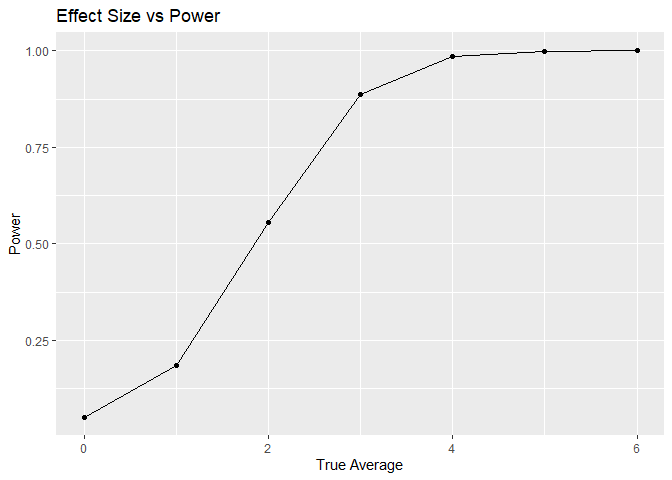
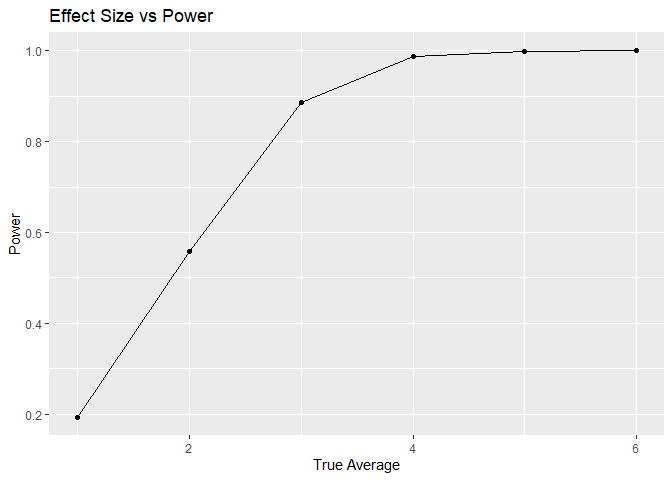
finished problem 3 and fixed function in problem 2 to make simulation run faster

diff --git a/HW5.md b/HW5.md
@@ -42,28 +42,31 @@ ggplot(sim_results_df, aes(x = sample_size, y = probability)) +
 
 ``` r
 power_sim = function(sample_mu){
-  sim_data = tibble(
-    x = rnorm(n = 30, mean = sample_mu, sd = 5),
-  )
-  sim_data %>% 
-    summarize(
-       t_test_results= broom::tidy(t.test(x, mu = 0, conf.level = .95)),
-       xbar = mean(x),
-       p_value = t_test_results$p.value
-    ) %>% 
-    select(xbar, p_value)
+    x = rnorm(n = 30, mean = sample_mu, sd = 5)
+    t_test_result= t.test(x, mu = 0, conf.level = .95)
+    tibble(xbar = mean(x), 
+           p_value = t_test_result$p.value)
 }
+
+mu_0 = power_sim(sample_mu = 0)
+print(mu_0)
 ```
+
+    ## # A tibble: 1 × 2
+    ##    xbar p_value
+    ##   <dbl>   <dbl>
+    ## 1 0.411   0.684
 
 ``` r
 simulation_results_df = 
   expand_grid(
-    sample_mu = c(0,1,2,3,4,5,6),
+    sample_mu = c(1, 2, 3, 4, 5, 6),
     iter = 1:5000
-  ) %>%  
-  mutate( 
+  ) %>% 
+  group_by(sample_mu) %>%
+  mutate(
     power_sim_df = map(sample_mu, power_sim)
-  ) %>%  
+  ) %>% 
   unnest(power_sim_df)
 ```
 
@@ -164,9 +167,10 @@ balt_result =
   broom::tidy() %>% 
   mutate(
     p_hat = estimate,
-    CI = paste("(",conf.low, ",",conf.high,")")
+    lower_ci_limit = conf.low,
+    upper_ci_limit = conf.high
   ) %>% 
-  select(p_hat, CI)
+  select(p_hat, lower_ci_limit, upper_ci_limit)
 ```
 
 ``` r
@@ -179,7 +183,21 @@ results_df =
   unnest(results) %>% 
   mutate(
     p_hat = estimate,
-    CI = paste("(",conf.low, ",",conf.high,")")
+    lower_ci_limit = conf.low,
+    upper_ci_limit = conf.high
   ) %>% 
-  select(city, p_hat, CI)
+  select(city, p_hat, lower_ci_limit, upper_ci_limit) %>% 
+  mutate(city = fct_reorder(city, p_hat))
+
+ggplot(results_df, aes(x = city, y = p_hat)) +
+  geom_point() + 
+  geom_errorbar(aes(ymin = lower_ci_limit, ymax = upper_ci_limit)) +
+  theme(axis.text.x = element_text(angle = 90, hjust = 1)) +
+  labs(x = "city", 
+       y = "Sample Proportion (p hat)",
+       title = "Proportion of Unsolved Homicides by City",
+       caption = "Sample proportions with 95% confidence interval shown"
+       )
 ```
+
+![](HW5_files/figure-gfm/unnamed-chunk-9-1.png)<!-- -->
